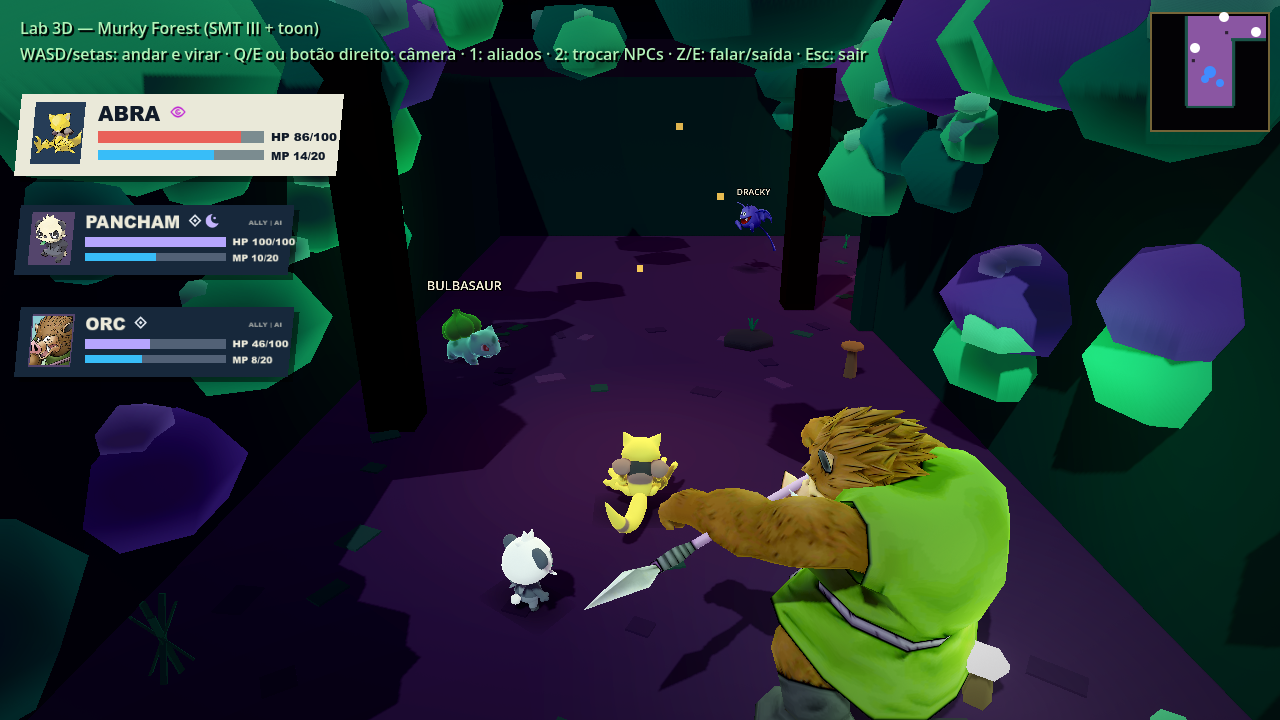
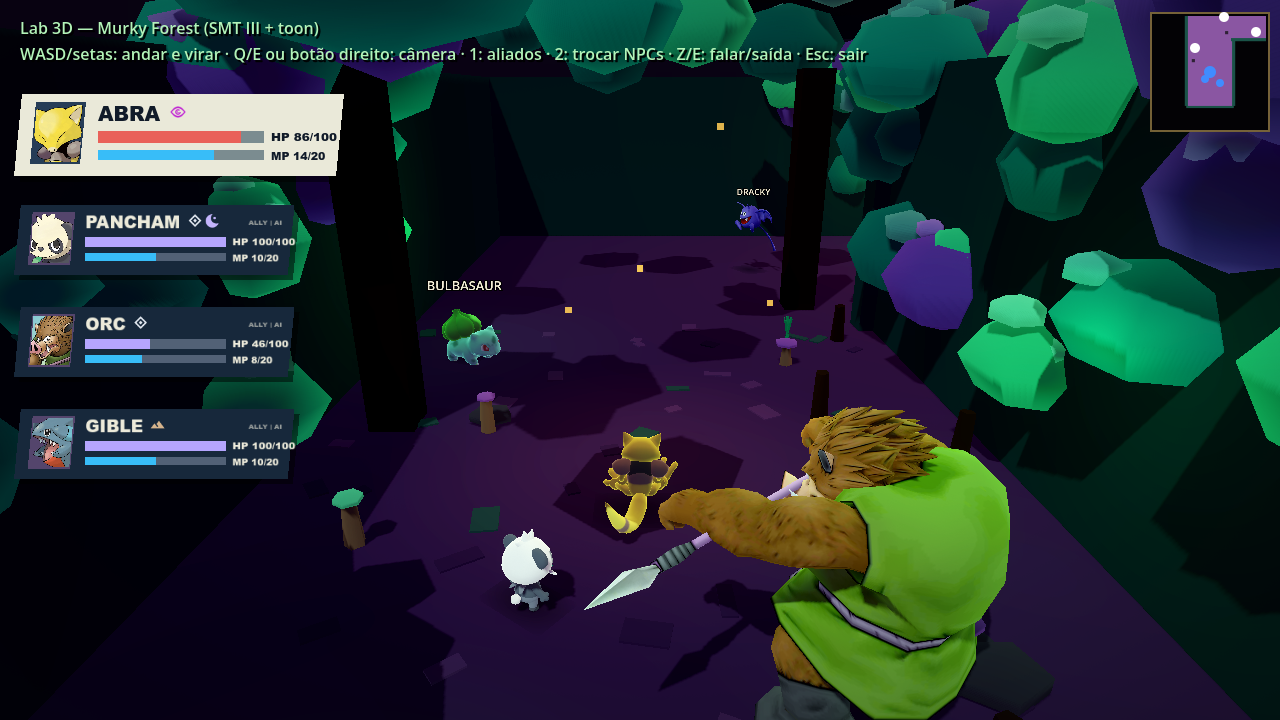
fix(exploration): zoom Sugimori portraits to the face and add Gible (D-1074)
Corrected the Sugimori portraits: they are no longer the full art centered in the frame. The cards now use normalized UV face regions: Abra option 3 (300,120-620,480), Pancham option 2 (300,40-980,800) and Gible option 2 (30,100-520,660). The same clipped slant_texture method is used, so the face fills the 56x62 portrait frame like the DQT portraits. Orc/DQT keeps its full 256x256 portrait untouched. Added GIBLE as a fourth demo card at (14,394), 0.85x, HP 100/100 and MP 10/20, element Earth; card size stays 330x104, bars/text/element icons stay as D-1074. Updated the D-1074/D-1072/D-1063 records, the NPC audit and the two proof images (four cards). No push.

diff --git a/docs/decisoes/D-1074-cards-overworld-sugimori-barras-elementos.md b/docs/decisoes/D-1074-cards-overworld-sugimori-barras-elementos.md
@@ -3,13 +3,15 @@
 - **Data:** 2026-11-09.
 - **Área:** Exploração / HUD / cards do overworld (`ExplorationBattleHud`).
 - **Relacionadas:** D-1072 (casca dos cards), D-1063 (NPCs), D-1023/D-1022 (overworld 3D).
-- **Status:** **teste implementado e verificado** no lab isolado; batalha, status, menus, DQT e jogo 2D não mudam; commit local; **sem push**.
+- **Status:** **teste implementado e corrigido** com zoom no rosto (Abra 3, Pancham 2, Gible 2); Gible entrou como 4º card demo; batalha, status, menus, DQT e jogo 2D não mudam; commit local; **sem push**.
 
 ## O que o criador disse (literal)
 
 > uma mudanca grande nos icones dos pokemons, eu quero que eles nao sejam mais estes icones de poucos pixels mas sim screenshots das sugimori artes deles que temos na pasta do jogo
 
 > alem disso os blocos dentro dos cartoes no overworld estao mt pequenos, o texto tambem, faca questao de ocuparem corretamente o espaco, coloque tambem seus icones de elementos ao lado do nome
+
+> nao assim, eu nao pedi assim, e pra dar zoom perto da face deles QUE NEM VC FEZ COM OS DQT, corrija isso
 
 Respostas às perguntas de esclarecimento:
 
@@ -20,42 +22,49 @@ Respostas às perguntas de esclarecimento:
 ## Decisão
 
 1. **Escopo:** apenas `scripts/debug/exploration_battle_hud.gd` (cards do overworld). `BattleHud`, `UnitCard`, `EnemyTag`, status screen, menus, NPCs DQT e o jogo 2D **não mudam**.
-2. **Retratos dos Pokémon:** usar as artes Sugimori locais de `res://sugimori/por_nome/<id>.png` (Abra e Pancham; a pasta é ignorada pelo Git, mas existe na pasta do jogo). O desenho usa o **mesmo método das artes DQT**: a textura grande preenche o retângulo inclinado de 56×62 (`_slant_texture(pr.grow(-2.0), 5.0, ...)`), com aspecto preservado e corte central.
-3. **DQT/Orc:** continua usando `res://personagens/portraits/orc.png` (256×256). Nenhuma arte DQT é trocada por Sugimori.
-4. **Card fixo:** **330×104**, sem aumentar. O herói continua 1,0× e os aliados 0,85×.
+2. **Retratos dos Pokémon com zoom no rosto:** usar as artes Sugimori locais de `res://sugimori/por_nome/<id>.png`, mas **recortadas perto da face**, como os retratos DQT, e não a arte inteira centralizada. O card recebe uma região UV por Pokémon e o `_slant_texture` preenche o quadro inclinado de 56×62 com essa região (aspecto preservado e corte central).
+   - **Abra:** opção 3 — crop (300, 120)–(620, 480) na arte 851×851.
+   - **Pancham:** opção 2 — crop (300, 40)–(980, 800) na arte 1261×1261.
+   - **Gible:** opção 2 — crop (30, 100)–(520, 660) na arte 762×762.
+   - As 3 opções de cada um foram geradas em `scratch/sugimori_face_options/`; o criador escolheu Abra 3, Pancham 2 e Gible 2.
+3. **DQT/Orc:** continua usando `res://personagens/portraits/orc.png` (256×256) **inteiro**, sem zoom; nenhuma arte DQT é trocada por Sugimori.
+4. **Card fixo:** **330×104**, sem aumentar. O herói continua 1,0× e os aliados 0,85×. O Gible entra como **4º card demo** em (14, 394), 0,85×, com HP 100/100 e MP 10/20 (demo).
 5. **Barras e textos maiores:** preencher o espaço útil do card:
    - nome em **20 px** (era 18);
    - HP: barra **166×12** (era 120×7), texto **12 px** (era 10);
    - MP: barra **166×10** (era 120×5), texto **11 px** (era 9);
    - textos de HP/MP à direita das barras, alinhados verticalmente com elas.
 6. **Ícones de elemento ao lado do nome:** até **2** ícones de 18×18 imediatamente após o nome, na mesma linha. Fonte: `res://assets/ui/icons/elements/*.svg`, com o mesmo mapa do battle (`FÍSICO→neutral`, `FOGO→fire`, `ÁGUA/GELO→water_ice`, `RAIO→electric`, `PSÍQUICO→psychic`, `VENENO→nature`, `SOM→sound`, `TERRA→earth`, `VENTO→wind`, `LUZ→light`, `TREVAS→dark`, `MYSTIC→mystic`). Cores de contraste: escuras no card creme do herói, claras no card azul dos aliados.
-7. **Elementos dos cards atuais:** ABRA = Psíquico; PANCHAM = Físico + Trevas; ORC = Físico (DQT, retrato atual).
+7. **Elementos dos cards atuais:** ABRA = Psíquico; PANCHAM = Físico + Trevas; ORC = Físico (DQT, retrato atual); GIBLE = Terra.
 8. **O que não muda:** mini-mapa/bolinhas flat, Slime 0,49 m, NPCs sólidos D-1063, alerta “!”, câmera, batalha 3D, jogo 2D e regras.
 
 ## Teste implementado (2026-11-09)
 
-- **Sugimori:** `res://sugimori/por_nome/abra.png` (851×851) e `pancham.png` (1261×1261) carregam no projeto principal; o retrato usa o mesmo `_slant_texture(pr.grow(-2.0), 5.0, ...)` das artes DQT (preenche o quadro inclinado, mantém aspecto e corta o centro).
-- **Orc/DQT:** `personagens/portraits/orc.png` (256×256) continua; nenhuma arte DQT foi trocada.
-- **Card:** 330×104, herói 1,0×, aliados 0,85×. Nome 20 px; HP 166×12 com texto 12; MP 166×10 com texto 11; barras e textos ocupando a largura útil.
-- **Elementos:** Abra = Psíquico; Pancham = Físico + Trevas; Orc = Físico. Ícones 18×18 ao lado do nome, com o mesmo mapa do `BattleHud` (`FÍSICO→neutral`, `PSÍQUICO→psychic`, `TREVAS→dark`) e cores de contraste (escuras no creme, claras no azul).
-- **Prova:** captura isolada em `docs/referencias/exploracao/3d/murky_forest_hud_sugimori.png` e recorte dos três cards em `murky_forest_hud_sugimori_cards.png`; mostra Abra/Pancham com Sugimori, Orc com o retrato DQT, três cards no party, bolinhas flat e NPCs.
+- **Sugimori com zoom no rosto:** Abra (crop 300,120–620,480), Pancham (300,40–980,800) e Gible (30,100–520,660) carregam no projeto principal; o card usa a região UV escolhida no mesmo `_slant_texture(pr.grow(-2.0), 5.0, ...)` das artes DQT.
+- **Orc/DQT:** `personagens/portraits/orc.png` (256×256) continua inteiro; nenhuma arte DQT foi trocada.
+- **Cards:** 330×104, herói 1,0×, aliados 0,85×. Nome 20 px; HP 166×12 com texto 12; MP 166×10 com texto 11; barras e textos ocupando a largura útil. Agora são **4 cards no party**: Abra, Pancham, Orc e Gible (Gible demo 100/100 + 10/20).
+- **Elementos:** Abra = Psíquico; Pancham = Físico + Trevas; Orc = Físico; Gible = Terra. Ícones 18×18 ao lado do nome, com o mesmo mapa do `BattleHud` (`FÍSICO→neutral`, `PSÍQUICO→psychic`, `TREVAS→dark`, `TERRA→earth`) e cores de contraste (escuras no creme, claras no azul).
+- **Prova:** captura isolada em `docs/referencias/exploracao/3d/murky_forest_hud_sugimori.png` e recorte dos quatro cards em `murky_forest_hud_sugimori_cards.png`; mostra Abra/Pancham/Gible com Sugimori em close, Orc com o retrato DQT, quatro cards no party, bolinhas flat e NPCs.
 - **Verificação:** `--check-only` do HUD e carregamento dos assets no projeto principal; a captura foi feita no projeto isolado porque a janela do projeto principal ainda esbarra nos erros de parse de VFX de outra sessão. A cena principal em headless continua rodando.
 
 ## Ambiguidades
 
 - **Tamanho exato** das barras/textos: valores acima são a implementação; o card não cresce, conforme a resposta.
 - **Sugimori local:** a pasta `sugimori/` é ignorada pelo Git; se a arte faltar, o card cai no retrato antigo de `personagens/portraits`.
-- **Orc:** sem Sugimori; mantém o retrato DQT atual.
+- **Orc:** sem Sugimori; mantém o retrato DQT atual, inteiro.
+- **Gible:** entrou como 4º card **demo** (100/100 + 10/20); a party real ainda não foi ligada.
 - **Ordem dos ícones:** segue a ordem dos elementos inatos (`get_elements()`); se o criador quiser só um ícone ou outra ordem, é uma decisão nova.
+- **Crop de rosto:** os retângulos foram escolhidos entre 3 opções por Pokémon; outro enquadramento é uma decisão nova.
 
 ## O que não foi verificado
 
 - **Janela do projeto principal:** a captura foi no isolado; o projeto principal carrega os assets, mas a janela ainda é bloqueada pelos erros de VFX de outra sessão.
 - **Sugimori local:** a pasta `sugimori/` é ignorada pelo Git; se a arte faltar, o card cai no retrato antigo.
-- **Corte da arte:** o método DQT corta o centro do quadro 56×62; extremidades das mãos/patas podem ficar fora, como nas artes DQT.
+- **Crop de rosto:** os retângulos são manuais; o Abra 3, Pancham 2 e Gible 2 foram escolhidos, mas não há detecção automática de rosto.
 - **Orc:** sem Sugimori; mantém o retrato DQT.
+- **Gible na party real:** o card é demo; não foi ligado a `GameState.party`.
 - **60 fps, mobile/web, outras resoluções** e batalha/status/menus (não tocados).
 
 ## Estado
 
-Teste implementado e verificado no lab isolado; prova em `murky_forest_hud_sugimori*`. Documentação registrada; commit local; **sem push**. Nada de combate/2D/DQT muda.
+Teste implementado e corrigido no lab isolado; Abra/Pancham/Gible em close no rosto e Gible como 4º card demo; prova em `murky_forest_hud_sugimori*`. Documentação registrada; commit local; **sem push**. Nada de combate/2D/DQT muda.

diff --git a/docs/decisoes/README.md b/docs/decisoes/README.md
@@ -430,7 +430,7 @@ Fontes: **Conversa** = o que o criador disse (frase literal entre aspas); **PROM
 - [D-1064 — Mini-mapa só com bolinhas: azul, branco e vermelho](D-1064-minimapa-bolinhas-azul-branco-vermelho.md) — **teste implementado**: remove o ícone; jogador/aliados azuis (aliados menores), NPCs brancos e inimigos vermelhos; bolinhas 12/8/10/10, sem textura; substitui o ícone/tamanhos da D-1027/D-1037; HUD de HP/MP e alerta continuam.
 - [D-1071 — Slime 0,35× menor no overworld](D-1071-slime-035x-menor-no-overworld.md) — **teste implementado** via nó `SlimeOverworldScaler`: só no lab da Murky Forest, modelo/cápsula/agente/sombra/tag do Slime em 0,35× (1,4→0,49 m; cápsula 0,49 m); batalha 3D, jogo 2D, party e regras intactos; lab de pedra D-1023 fica em 1,4 m como referência; HUD/mini-mapa inalterados.
 - [D-1072 — Bolinhas flat e HUD de HP/MP no estilo dos cartões de batalha](D-1072-bolinhas-flat-e-hud-cartoes-batalha.md) — **teste implementado** via nó `ExplorationBattleHud`: remove o contorno das bolinhas (`dots_flat=true`); cards 330×104 do `UnitCard` (hero creme, aliados azul-escuro 0,85×, retrato/nome/HP/MP) no canto esquerdo; 1 card no solo e 3 no party; ATB/Burst/status/tanque de MP ficam de fora; HP/MP demo.
-- [D-1074 — Cards do overworld: retratos Sugimori, barras/textos maiores e ícones de elemento](D-1074-cards-overworld-sugimori-barras-elementos.md) — **teste implementado**: só os cards do overworld; Abra/Pancham com Sugimori (mesmo método DQT; card 330×104); Orc/DQT intacto; HP 166×12 texto 12, MP 166×10 texto 11, nome 20; ícones de elemento (Abra Psíquico; Pancham Físico+Trevas; Orc Físico) ao lado do nome; batalha/status/2D intactos; provas em `docs/referencias/exploracao/3d/murky_forest_hud_sugimori*`.
+- [D-1074 — Cards do overworld: retratos Sugimori com zoom no rosto, barras/textos maiores e ícones de elemento](D-1074-cards-overworld-sugimori-barras-elementos.md) — **teste implementado e corrigido**: só os cards do overworld; Abra (opção 3), Pancham (2) e Gible (2) com close no rosto das artes Sugimori (mesmo método DQT; card 330×104); Gible como 4º card demo; Orc/DQT inteiro; HP 166×12 texto 12, MP 166×10 texto 11, nome 20; ícones de elemento ao lado do nome; batalha/status/2D intactos; provas em `docs/referencias/exploracao/3d/murky_forest_hud_sugimori*`.
 - [D-1015 — Drain Spear: sincronia e coroa](D-1015-drain-spear-sincronia-e-coroa.md) — lança deita na chegada; disparo nos últimos 0,25 s; antecipação e espera voltam; coroa se separa, −25% opacidade.
 - [D-1016 — Drain Spear: lança à frente e ritmo](D-1016-drain-spear-lanca-a-frente-e-ritmo.md) — círculos 0,25 s; lança à frente, deita no prelúdio; contato pelo clipe; sem Dread no mid-range.
 - [D-1026 — Armored Bulk e a badge Armor](D-1026-armored-bulk-e-badge-armor.md) — Move genérico TERRA, 10 MP/1 ATB/SELF, wind-up instantâneo; badge ARMOR 8 s absorve o primeiro dano sem interrupção, anula efeitos de contato e knockback (exceto KO); Guard tem prioridade; VFX opção A; Orc e Cyclops agora (Pancham aprende por nível, fora por ora); pausa de 1,5 s; Armor continua contando durante o Guard.

diff --git a/docs/REGRAS_DO_JOGO.md b/docs/REGRAS_DO_JOGO.md
@@ -308,7 +308,7 @@ Registradas, **ainda não implementadas** (ver §13 para a ordem de trabalho).
 - **[D-1064] Mini-mapa só com bolinhas:** **teste implementado**: remove o ícone; jogador/aliados azuis (aliados menores), NPCs brancos e inimigos vermelhos; bolinhas 12/8/10/10, sem textura; substitui o ícone/tamanhos da D-1027/D-1037; HUD de HP/MP e alerta continuam.
 - **[D-1071] Slime 0,35× menor no overworld:** **teste implementado** via nó `SlimeOverworldScaler`: só no lab da Murky Forest, modelo/cápsula/agente/sombra/tag do Slime em 0,35× (1,4→0,49 m; cápsula 0,49 m); batalha 3D, jogo 2D, party e regras intactos; lab de pedra D-1023 fica em 1,4 m como referência; HUD/mini-mapa inalterados.
 - **[D-1072] Bolinhas flat e HUD de HP/MP no estilo dos cartões de batalha:** **teste implementado** via nó `ExplorationBattleHud`: remove o contorno das bolinhas (`dots_flat=true`); cards 330×104 do `UnitCard` (hero creme, aliados azul-escuro 0,85×, retrato/nome/HP/MP) no canto esquerdo; 1 card no solo e 3 no party; ATB/Burst/status/tanque de MP ficam de fora; HP/MP demo.
-- **[D-1074] Cards do overworld com Sugimori, barras/textos maiores e elementos:** **teste implementado**: só os cards do overworld; Abra/Pancham com as artes Sugimori locais (mesmo método DQT; card 330×104, sem aumentar); Orc/DQT mantém o retrato atual; HP 166×12 texto 12, MP 166×10 texto 11, nome 20; ícones de elemento ao lado do nome (Abra Psíquico; Pancham Físico+Trevas; Orc Físico); batalha/status/2D intactos; provas em `docs/referencias/exploracao/3d/murky_forest_hud_sugimori*`.
+- **[D-1074] Cards do overworld com Sugimori, zoom no rosto, barras/textos maiores e elementos:** **teste implementado e corrigido**: só os cards do overworld; Abra (opção 3), Pancham (2) e Gible (2) com close no rosto das artes Sugimori locais (mesmo método DQT; card 330×104, sem aumentar); Gible como 4º card demo; Orc/DQT mantém o retrato inteiro; HP 166×12 texto 12, MP 166×10 texto 11, nome 20; ícones de elemento ao lado do nome; batalha/status/2D intactos; provas em `docs/referencias/exploracao/3d/murky_forest_hud_sugimori*`.
 
 ### 14.2 Inimigos no mapa
 - **[GDD R8-Q5, R9-Q3]** Inimigos **visíveis** no mapa; **patrulham** e **perseguem** após detectar; **o contato inicia o combate 3D** (não a mera detecção).

diff --git a/docs/decisoes/D-1063-npcs-overworld-3d-5-pokemon-5-dqt.md b/docs/decisoes/D-1063-npcs-overworld-3d-5-pokemon-5-dqt.md
@@ -56,10 +56,10 @@ Respostas do criador às 4 perguntas de esclarecimento:
 - **NPCs:** 3 por vez; `idle`; etiquetas; sombras; marcadores brancos; prompt `Z/E: FALAR` e diálogo funcionando; ciclo `+3` verificado.
 - **Colisão:** `player_mask=17`, `npc_layer=16`, `test_move=true`; a câmera usa máscara 1 e ignora os NPCs.
 - **Bolinhas:** `dots_flat=true` no início e depois do ciclo; bordas todas em 0.
-- **HUD D-1072:** cards 3 (1 visível no solo, 3 no party), badges antigos escondidos; Slime em 0,49 m.
+- **HUD D-1072/D-1074:** cards 4 (1 visível no solo, 4 no party; GIBLE demo adicionado pela D-1074), badges antigos escondidos; Slime em 0,49 m.
 - **Auditoria de caminho (solo/party):** `wall_hits=0`, `cam_inside=0`, `cam_close_frames=0`, `path_short=0`, `path_min=2`, `stack_pairs=0`, porta `near/visible/used`; HUD/alerta/toon intactos.
 - **Cena principal:** `godot --headless --path . --fixed-fps 30 --quit-after 120 scenes/debug/murky_forest_3d_lab.tscn` terminou sem erro após a correção.
-- **Provas:** `docs/referencias/exploracao/3d/murky_forest_npcs_10_models.png`, `murky_forest_npcs_corredor.png`, `murky_forest_npcs_dialogo.png` e `murky_forest_npcs_auditoria.txt`. As imagens de corredor/diálogo foram feitas antes do HUD D-1072 (mostram os badges antigos); a prova do HUD novo está em `murky_forest_hud.png` e nos vídeos D-1072.
+- **Provas:** `docs/referencias/exploracao/3d/murky_forest_npcs_10_models.png`, `murky_forest_npcs_corredor.png`, `murky_forest_npcs_dialogo.png` e `murky_forest_npcs_auditoria.txt`. As imagens de corredor/diálogo foram feitas antes do HUD D-1072 (mostram os badges antigos); a prova do HUD novo está em `murky_forest_hud.png`, `murky_forest_hud_sugimori.png` e nos vídeos D-1072.
 
 ## O que não foi verificado
 

diff --git a/docs/decisoes/D-1072-bolinhas-flat-e-hud-cartoes-batalha.md b/docs/decisoes/D-1072-bolinhas-flat-e-hud-cartoes-batalha.md
@@ -4,7 +4,7 @@
 - **Área:** Exploração / HUD / mini-mapa
 - **Origem:** depois de aprovar o Slime menor, o criador pediu para tirar o contorno das bolinhas e trocar o HUD de HP/MP pelo visual dos cartões de batalha.
 - **Status:** **teste implementado no lab da Murky Forest** via nó `ExplorationBattleHud`; o resto está aprovado; nada publicado.
-- **Nota D-1074 (2026-11-09):** os retratos dos Pokémon e as barras/textos dos cards do overworld foram trocados/ampliados; a casca 330×104, as bolinhas flat, o HUD aditivo e a omissão dos sistemas de combate continuam.
+- **Nota D-1074 (2026-11-09):** os retratos dos Pokémon e as barras/textos dos cards do overworld foram trocados/ampliados; o Gible entrou como 4º card demo; a casca 330×104, as bolinhas flat, o HUD aditivo e a omissão dos sistemas de combate continuam.
 
 ## O que o criador disse (literal)
 
